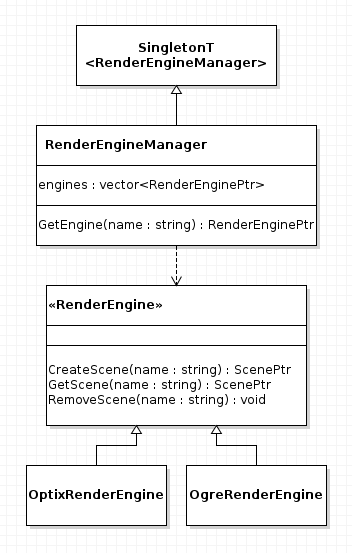
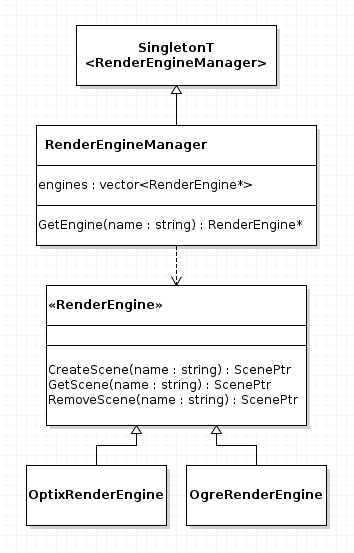
updated scene-graph structure

diff --git a/render_engine/render_engine.md b/render_engine/render_engine.md
@@ -4,8 +4,8 @@
 ### Overview
 
 We currently make native Ogre calls throughout much of Gazebo. This project
-aims to hide implementation details behind an abstract interface, so that we
-can easily substitute Ogre with another render-engine in the future.
+aims to hide rendering implementation details behind an abstract interface, so
+that we can easily substitute Ogre with another render-engine in the future.
 Admittedly, this will be no easy task, as the very nature of this project
 requires much of Gazebo to be modified and even completely rewritten.
 
@@ -23,9 +23,9 @@ be provided:
 ### Architecture
 
 Given then above requirements, we must move away from directly accessing a
-`RenderEngine` singleton and allow one to be selected on the fly. For this
+`RenderEngine` singleton and allow one to be selected at runtime. For this
 reason we propose employing a `RenderEngineManager` singleton to provide access
-to the available render-engines. `RenderEngine` instances would be created as
+to the available render-engines. `RenderEngine` instances will be created as
 needed, and the references maintained by the `RenderEngineManager`. The UML
 diagram below shows this relationship:
 
@@ -34,17 +34,17 @@ diagram below shows this relationship:
 Here we see that each new render-engine will need to provide its own
 implementation of the pure virtual class `RenderEngine`. As before, the main
 purpose of the `RenderEngine` class will be to load needed resources and create
-new `Scene` objects.
+new `Scene` instances.
 
-The `Scene` class will change greatly in this design. Currently it subscribes
-to topics like `~/visual`, `~/model/info`, and `~/pose/info`.  The `Scene`
-class uses this subscriptions to modify itself. We propose moving this
-functionality outside of the `Scene` class for two reasons:
+The `Scene` class will change greatly in this new design. Currently `Scene`
+subscribes to topics like `~/visual`, `~/model/info`, and `~/pose/info`.  The
+`Scene` class uses these subscriptions to modify itself. We propose moving this
+functionality outside of the `Scene` class for three reasons:
 
 1. We may want scenes that are not subject to global modification
 1. Each render-engine implementation should not need to reimplement such
 functionality
-1. Easier to keep multiple scenes synchronized
+1. It will be easier to keep multiple scenes synchronized
 
 For these reasons, we propose creating a `SceneManager` class that handles the
 current functionality of subscribing to these topics and modifying all scenes
@@ -55,22 +55,22 @@ below shows this relationship:
 
 ![alt text](rendering_uml2.png)
 
-Each concrete class in a scene-graph will be directly or indirectly derived
-from an implementation of the abstract `Node` class. The `Node` class provides
-the interface for setting the pose and scale of an object in the scene-graph, as
-well as the addition and removal of its children. Any subclass of `Node` can be
-added to any other instance of `Node`. These concrete classes will also be
-responsible for implementing its respective pure virtual interface. The UML
-diagram below shows this relationship for the `OgreLight` class.
+Each element in a scene-graph will be directly or indirectly derived from
+an implementation of the abstract `Node` class. The `Node` class provides the
+interface for simply setting the pose of an object in the scene-graph. The only
+possible internal node in a scene-graph will be the `Visual` class. All other
+`Node` subclasses (`Sensor` and `Light`) may only be leaf nodes. Consequently,
+the `Visual` class will be the only class to provide functionality to add and
+remove children. The UML diagram below shows this relationship:
 
 ![alt text](rendering_uml3.png)
 
-While diagram clearly illustrates the dreaded diamond inheritance problem, we
-do not believe it will cause any major issues. As the generic `Node` and `Light`
-classes strictly contain pure virtual functions, the `OgreLight` class will only
-inherit functionality from `OgreNode` and implement the remaining `Light`
-interface itself. The full relationship of scene-graph nodes can be seen in the
-following UML diagram:
+While this diagram clearly illustrates the dreaded diamond inheritance problem,
+we do not believe it will cause any major issues. As the generic `Node` and
+`Visual` classes strictly contain pure virtual functions, the `OgreVisual`
+class will only inherit functionality from `OgreNode` and implement the
+remaining `Visual` interface itself. The full relationship of scene-graph nodes
+can be seen in the following UML diagram:
 
 ![alt text](rendering_uml4.png)
 
@@ -78,8 +78,20 @@ This diagram illustrates an important digression from the current design. The
 `Visual` class will now hold reference to the new `Geometry` and `Material`
 classes, instead of internalizing that functionality. This enables us to provide
 a concise interface for each geometry and to treat composite visuals in a
-generic manner (axis-arrows are cones and cylinders of a certain color and
-proportion, no matter the underlying render-engine).
+generic manner (we will not need a `OgreArrowVisual` class, only
+`ArrowVisual`). Although it will be possible to add multiple `Geometry`
+instances to a single `Visual`, `Geometry` objects themselves do not carry pose
+information. So it will be more common to wrap each `Geometry` with its own
+`Visual`. This relationship is illustrated in the following UML diagram:
+
+![alt text](rendering_uml5.png)
+
+Here we can see how the `ArrowVisual` class references two instances of the
+abstract `Visual` class, one for the head of the arrow the other the shaft. It
+will create these instances itself via the functions `CreateVisual()`,
+`CreateCone()`, and `CreateCylinder()` provided by the `Scene` class. This way
+one need only pass an instance of either `OgreScene` or `OptixScene` to
+`ArrowVisual` to create an arrow for the desired render-engine.
 
 ### Interfaces
 
@@ -93,30 +105,31 @@ must select an engine via the `RenderEngineManager`. This call can be wrapped
 by a `RenderingIface` function in a similar fashion as scene creation is
 currently being performed:
 
-    RenderEnginePtr renderEngine = rendering::get_engine("Ogre");
+    RenderEngine* renderEngine = rendering::get_engine("Ogre");
 
 Once a developer gains reference to a specific `RenderEngine`, a `Scene` can be
-constructed in a generic manner:
+constructed as follows:
 
     ScenePtr scene = renderEngine->CreateScene("world");
 
-This call will also register the new `Scene` with the `SceneManager`, so
-that it will be automatically updated via the scene messages.  However, if you
-wish to create a scene not subject to global changes, you could instead call
-the following function:
+This will create a empty scene that will not be updated automatically via scene
+messages sent by the server. Here elements in the scene must be added manually.
+However, if you wish to have the scene updated automatically, you will need to
+register it with the `SceneManager` as follows:
 
-    ScenePtr scene = renderEngine->CreateUnregisteredScene("my_scene");
+    SceneManager::Instance()->AddScene(scene);
 
-Once a scene has been created, nodes can be added directly in the following
-manner: 
+Whether or not a `Scene` is registered with the `SceneManager`, nodes can be
+added manually in the following manner: 
 
-    PointLightPtr light = scene->CreatePointLight("light0");
+    PointLightPtr light = scene->CreatePointLight("my_light");
     light->setDiffuseColor(0.8, 0.8, 0.8);
     light->setWorldPose(0, 0, 10);
     scene->AddChild(light);
 
-As previously mentioned, `Visual` objects will consist of a `Geometry` and
-`Material`, as the following example illustrates:
+As previously mentioned, `Visual` objects will consist of one or more
+`Geometry` instances and a single `Material`, as the following example
+illustrates:
 
     MaterialPtr material = scene->CreateMaterial();
     material->SetAmbient(0.6, 0, 0);
@@ -127,27 +140,32 @@ As previously mentioned, `Visual` objects will consist of a `Geometry` and
     cone->SetRadius(0.5);
     cone->SetHeight(4);
 
-    VisualPtr visual = scene->CreateVisual("red_cone");
+    VisualPtr visual = scene->CreateVisual("my_visual");
     visual->SetLocalPosition(0, 0, 0);
     visual->SetMaterial(material);
-    visual->SetGeometry(cone);
+    visual->AddGeometry(cone);
 
     scene->AddChild(visual);
 
-However, as `common::Mesh` objects often contain material details, developers
-can directly create mesh visuals as follows:
+However, as `common::Mesh` objects often contain material information, one can
+directly create mesh visuals as follows:
 
     common::Mesh mesh = common::MeshManager::Instance()->Load(filename);
     VisualPtr visual = scene->CreateVisual("my_mesh", mesh);
+
+This will automatically create a `Geometry` for each submesh as well as its
+respective `Material`, bundling everything into a `Visual` instance. Depending
+on the `common::Mesh` given, this `Visual` may be composed of one or
+instances of `Visual`.
 
 As before, calls to `scene->AddChild()` will only modify the referenced scene.
 If you wish to apply changes globally to all scenes managed by the
 `SceneManager`, you will need to publish the respective scene update message.
 
 The interface with camera sensors will largely be unchanged, as the
-`sensors::CameraSensor` class mainly interfaced directly with our
+`sensors::CameraSensor` class mainly interfaces directly with
 `rendering::Camera` and not Ogre. However the GUI side of Gazebo will undergo
-several large interface changes, to break its strong ties to Ogre.
+several large internal changes to break its strong ties to Ogre.
 
 ### Performance Considerations
 
